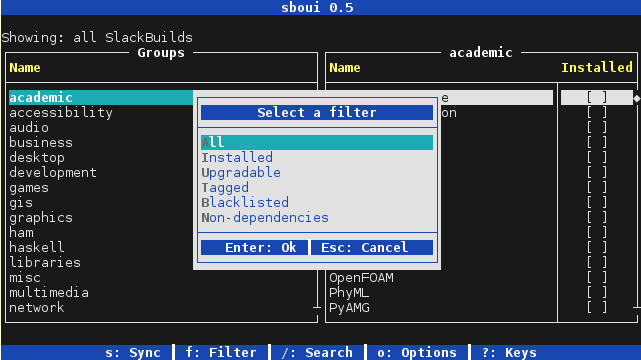
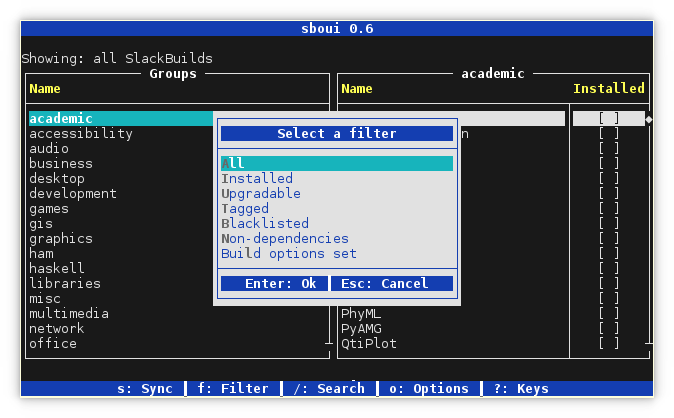
sboui 0.6

diff --git a/README.md b/README.md
@@ -8,12 +8,15 @@ This approach allows much greater flexibility in the design of the user
 interface and also makes it very fast. The main features of sboui include:
 
 * Two-pane browsable listing of software groups and names
-* Filters: all, installed, upgradable, tagged, blacklisted, and non-dependencies
+* Filters: all, installed, upgradable, tagged, blacklisted, non-dependencies,
+  and build options set
 * Search the repository, including searching in READMEs
 * Dependency resolution: forward and inverse mode
 * View and edit files in the repository
 * Tag multiple packages (or entire groups) to apply batch changes
 * Blacklist installed packages by name or regex pattern
+* Manage build options for SlackBuilds and remember them across sessions
+* Automatically rebuild inverse dependencies (optional)
 * Comes with several built-in color themes and supports custom themes
 * Designed for and tested to work flawlessly with sbopkg and sbotools, but it is
   easy to set it up to work with your own custom package manager
